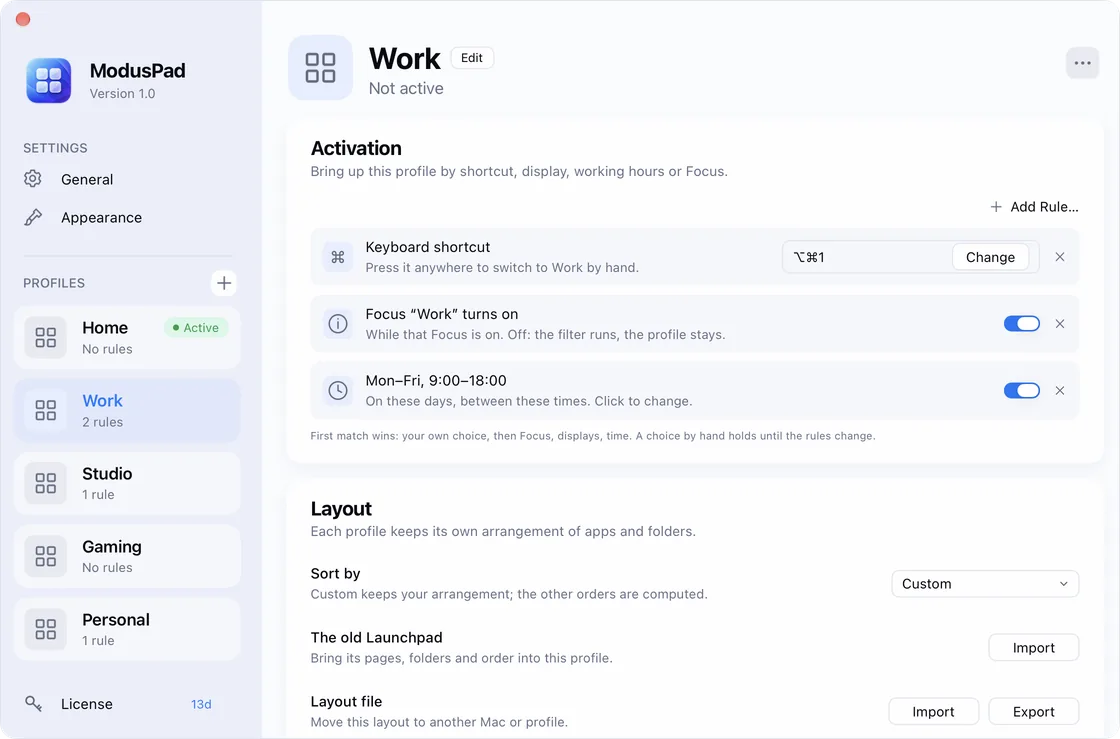
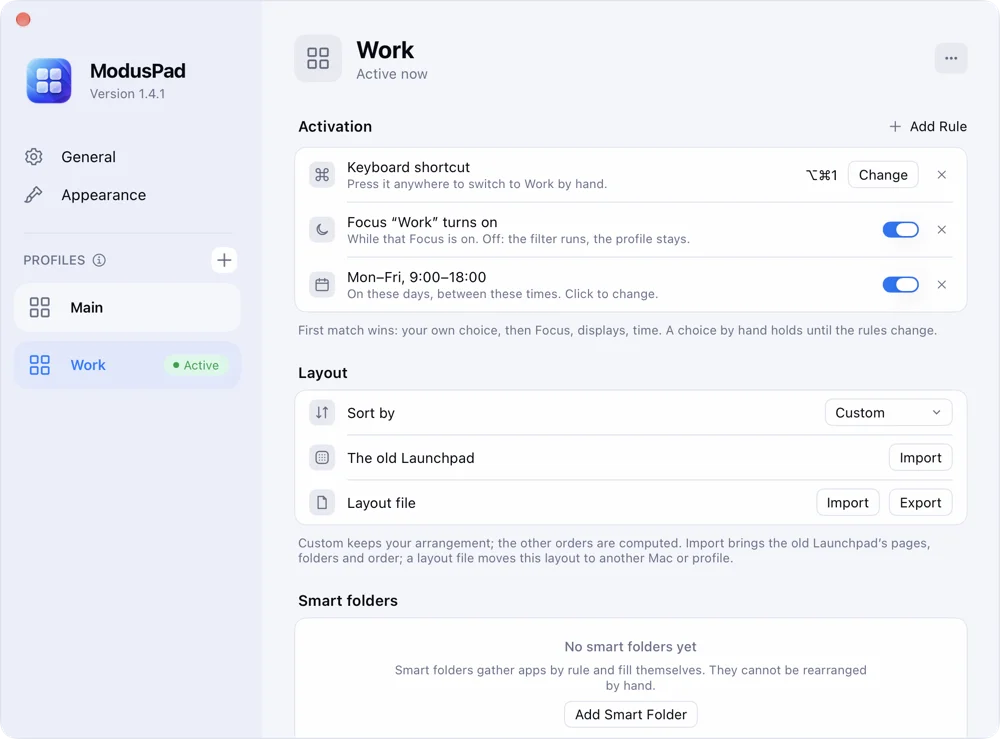
README: profiles run shortcuts, the notch, what changes after the trial; screenshots of 1.4.1

diff --git a/README.md b/README.md
@@ -37,18 +37,18 @@ itself.
 - **A full-screen launcher, back where it belongs.** Pages, folders, search and drag & drop. Bring over your old Launchpad
   layout in one click.
 - **Profiles for every kind of work.** Work, Personal, Gaming: each profile has its own launcher layout, its own hidden
-  apps and the apps it opens.
+  apps and the apps it opens — and runs your shortcuts from the Shortcuts app when it turns on or off.
 - **Switches by itself.** Turn a profile on by schedule, when a display is connected, or when a Focus mode starts — or
   give it its own keyboard shortcut.
 - **Smart folders.** Folders that fill themselves by your rules: name, category, version, architecture, when an app was
   installed or last opened, how often you launch it.
-- **Open it your way.** A hotkey, F4, a hot corner or a trackpad gesture.
+- **Open it your way.** A hotkey, F4, a hot corner, the notch or a trackpad gesture.
 - **Native and private.** Built in Swift for macOS 26 and 27, in English, Deutsch, Français and 日本語. No account, no
   tracking — your layouts stay on your Mac. ModusPad never deletes or moves anything on disk.
 
 <p align="center">
   <img src="images/profile-work.webp" width="400" alt="The Work profile's launcher">
-  <img src="images/rules.webp" width="400" alt="A profile's rules: shortcut, Focus, working hours">
+  <img src="images/rules.webp" width="400" alt="A profile's rules in Settings: shortcut, Focus, working hours">
 </p>
 
 ## Install
@@ -62,7 +62,8 @@ ModusPad updates itself. Homebrew: coming to the official cask.
 ## Pricing
 
 Try every feature free for 14 days. Then a one-time purchase for 1, 2 or 5 Macs —
-[see prices](https://moduspad.com/#pricing).
+[see prices](https://moduspad.com/#pricing). After the trial, ModusPad keeps working with some limitations —
+[see what changes](https://moduspad.com/after-trial?utm_source=github).
 
 ## Feedback
 
